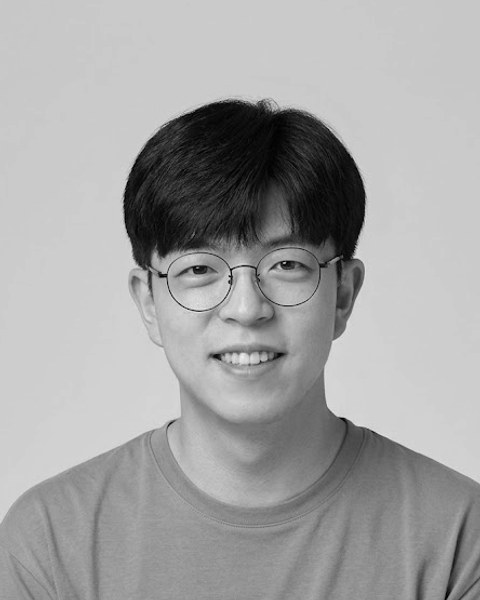
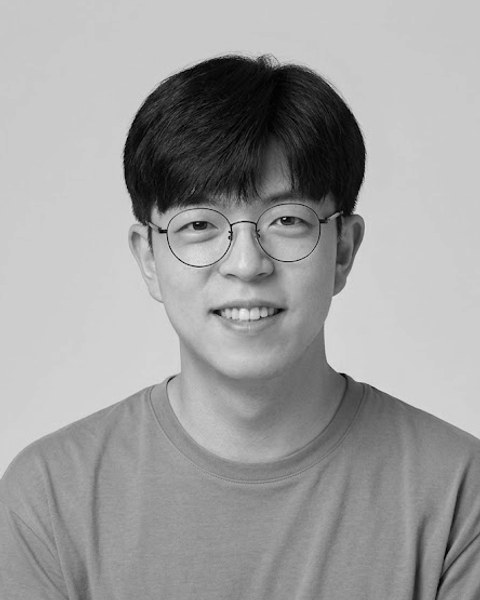
Restore headroom on 6 teachers, nudge 형일우 up slightly
The "moderate tighten" pass a few rounds back cut headroom too close
for 김진우/김금단/배경호/신병철/최윤후/조윤성 (confirmed by matching
the exact set the user flagged as cut off). Reverted each to their
last known-good, more generous crop. Also raised 형일우 slightly
within frame per feedback that he sat too low.

diff --git a/index.html b/index.html
@@ -199,23 +199,23 @@
           <h3>디쌤</h3>
           <p class="tcard-role">원장 · 영어</p>
         </div>
-        <div class="carousel-slide tcard lightbox-trigger" data-name="김진우" data-role="부원장 · 국어" data-photo="assets/teacher-kimjinwoo.jpg?v=7">
-          <div class="tcard-photo-wrap"><img class="tcard-photo" src="assets/teacher-kimjinwoo.jpg?v=7" alt="김진우"></div>
+        <div class="carousel-slide tcard lightbox-trigger" data-name="김진우" data-role="부원장 · 국어" data-photo="assets/teacher-kimjinwoo.jpg?v=8">
+          <div class="tcard-photo-wrap"><img class="tcard-photo" src="assets/teacher-kimjinwoo.jpg?v=8" alt="김진우"></div>
           <h3>김진우</h3>
           <p class="tcard-role">부원장 · 국어</p>
         </div>
-        <div class="carousel-slide tcard lightbox-trigger" data-name="김금단" data-role="팀장 · 영어" data-photo="assets/teacher-kimgeumdan.jpg?v=7">
-          <div class="tcard-photo-wrap"><img class="tcard-photo" src="assets/teacher-kimgeumdan.jpg?v=7" alt="김금단"></div>
+        <div class="carousel-slide tcard lightbox-trigger" data-name="김금단" data-role="팀장 · 영어" data-photo="assets/teacher-kimgeumdan.jpg?v=8">
+          <div class="tcard-photo-wrap"><img class="tcard-photo" src="assets/teacher-kimgeumdan.jpg?v=8" alt="김금단"></div>
           <h3>김금단</h3>
           <p class="tcard-role">팀장 · 영어</p>
         </div>
-        <div class="carousel-slide tcard lightbox-trigger" data-name="배경호" data-role="팀장 · 수학" data-photo="assets/teacher-baekyungho.jpg?v=6">
-          <div class="tcard-photo-wrap"><img class="tcard-photo" src="assets/teacher-baekyungho.jpg?v=6" alt="배경호"></div>
+        <div class="carousel-slide tcard lightbox-trigger" data-name="배경호" data-role="팀장 · 수학" data-photo="assets/teacher-baekyungho.jpg?v=7">
+          <div class="tcard-photo-wrap"><img class="tcard-photo" src="assets/teacher-baekyungho.jpg?v=7" alt="배경호"></div>
           <h3>배경호</h3>
           <p class="tcard-role">팀장 · 수학</p>
         </div>
-        <div class="carousel-slide tcard lightbox-trigger" data-name="신병철" data-role="수학" data-photo="assets/teacher-shinbyungchul.jpg?v=5">
-          <div class="tcard-photo-wrap"><img class="tcard-photo" src="assets/teacher-shinbyungchul.jpg?v=5" alt="신병철"></div>
+        <div class="carousel-slide tcard lightbox-trigger" data-name="신병철" data-role="수학" data-photo="assets/teacher-shinbyungchul.jpg?v=6">
+          <div class="tcard-photo-wrap"><img class="tcard-photo" src="assets/teacher-shinbyungchul.jpg?v=6" alt="신병철"></div>
           <h3>신병철</h3>
           <p class="tcard-role">수학</p>
         </div>
@@ -224,13 +224,13 @@
           <h3>안소현</h3>
           <p class="tcard-role">국어</p>
         </div>
-        <div class="carousel-slide tcard lightbox-trigger" data-name="최윤후" data-role="영어" data-photo="assets/teacher-choiyoonhoo.jpg?v=5">
-          <div class="tcard-photo-wrap"><img class="tcard-photo" src="assets/teacher-choiyoonhoo.jpg?v=5" alt="최윤후"></div>
+        <div class="carousel-slide tcard lightbox-trigger" data-name="최윤후" data-role="영어" data-photo="assets/teacher-choiyoonhoo.jpg?v=6">
+          <div class="tcard-photo-wrap"><img class="tcard-photo" src="assets/teacher-choiyoonhoo.jpg?v=6" alt="최윤후"></div>
           <h3>최윤후</h3>
           <p class="tcard-role">영어</p>
         </div>
-        <div class="carousel-slide tcard lightbox-trigger" data-name="조윤성" data-role="수학" data-photo="assets/teacher-jhoyoonsung.jpg?v=4">
-          <div class="tcard-photo-wrap"><img class="tcard-photo" src="assets/teacher-jhoyoonsung.jpg?v=4" alt="조윤성"></div>
+        <div class="carousel-slide tcard lightbox-trigger" data-name="조윤성" data-role="수학" data-photo="assets/teacher-jhoyoonsung.jpg?v=5">
+          <div class="tcard-photo-wrap"><img class="tcard-photo" src="assets/teacher-jhoyoonsung.jpg?v=5" alt="조윤성"></div>
           <h3>조윤성</h3>
           <p class="tcard-role">수학</p>
         </div>
@@ -249,8 +249,8 @@
           <h3>김정민</h3>
           <p class="tcard-role">통합사회 · 한국사</p>
         </div>
-        <div class="carousel-slide tcard lightbox-trigger" data-name="형일우" data-role="수학" data-photo="assets/teacher-hyungilwoo.jpg">
-          <div class="tcard-photo-wrap"><img class="tcard-photo" src="assets/teacher-hyungilwoo.jpg" alt="형일우"></div>
+        <div class="carousel-slide tcard lightbox-trigger" data-name="형일우" data-role="수학" data-photo="assets/teacher-hyungilwoo.jpg?v=2">
+          <div class="tcard-photo-wrap"><img class="tcard-photo" src="assets/teacher-hyungilwoo.jpg?v=2" alt="형일우"></div>
           <h3>형일우</h3>
           <p class="tcard-role">수학</p>
         </div>

diff --git a/process-teachers.js b/process-teachers.js
@@ -10,17 +10,17 @@ const OUT_W = 480, OUT_H = 600; // 4:5 portrait, consistent across all cards
 // the auto-fit step below only needs to make small adjustments.
 const photos = [
   { file: '디쌤 원장 프로필.jpg', out: 'teacher-disaem.jpg', top: 0.07, bottom: 0.88, left: 0.1635, right: 0.8115, normalize: true },
-  { file: '김진우 프로필.jpg', out: 'teacher-kimjinwoo.jpg', top: 0.128, bottom: 0.85, left: 0.144, right: 0.866 },
-  { file: '김금단 프로필.png', out: 'teacher-kimgeumdan.jpg', top: 0.235, bottom: 0.74, left: 0.212, right: 0.778 },
-  { file: '배경호 프로필.jpg', out: 'teacher-baekyungho.jpg', top: 0.126, bottom: 0.87, left: 0.163, right: 0.867 },
-  { file: '신병철프로필.png', out: 'teacher-shinbyungchul.jpg', top: 0.122, bottom: 0.804, left: 0.107, right: 0.873 },
+  { file: '김진우 프로필.jpg', out: 'teacher-kimjinwoo.jpg', top: 0.02, bottom: 0.85, left: 0.09, right: 0.92 },
+  { file: '김금단 프로필.png', out: 'teacher-kimgeumdan.jpg', top: 0.16, bottom: 0.74, left: 0.17, right: 0.82 },
+  { file: '배경호 프로필.jpg', out: 'teacher-baekyungho.jpg', top: 0.015, bottom: 0.87, left: 0.11, right: 0.92 },
+  { file: '신병철프로필.png', out: 'teacher-shinbyungchul.jpg', top: 0.02, bottom: 0.804, left: 0.05, right: 0.93 },
   { file: '안소현 프로필.jpg', out: 'teacher-ansoseon.jpg', top: 0.127, bottom: 0.64, left: 0.212, right: 0.778 },
-  { file: '최윤후 프로필.jpg', out: 'teacher-choiyoonhoo.jpg', top: 0.114, bottom: 0.777, left: 0.133, right: 0.837 },
-  { file: '조윤성 프로필.png', out: 'teacher-jhoyoonsung.jpg', top: 0.203, bottom: 0.76, left: 0.177, right: 0.803 },
+  { file: '최윤후 프로필.jpg', out: 'teacher-choiyoonhoo.jpg', top: 0.015, bottom: 0.777, left: 0.08, right: 0.89 },
+  { file: '조윤성 프로필.png', out: 'teacher-jhoyoonsung.jpg', top: 0.12, bottom: 0.76, left: 0.13, right: 0.85 },
   { file: '장효진 프로필.jpg', out: 'teacher-jangHyojin.jpg', top: 0.04, bottom: 0.75, left: 0.05, right: 0.90 },
   { file: '김정민 프로필.png', out: 'teacher-kimjeongmin.jpg', top: 0.045, bottom: 0.86, left: 0.2115, right: 0.8635 },
   { file: '박한미 프로필.jpeg', out: 'teacher-parkhanmi.jpg', top: 0.03, bottom: 0.81, left: 0.10, right: 0.90 },
-  { file: '형일우 프로필.jpg', out: 'teacher-hyungilwoo.jpg', top: 0.06, bottom: 0.61, left: 0.02, right: 0.96 },
+  { file: '형일우 프로필.jpg', out: 'teacher-hyungilwoo.jpg', top: 0.10, bottom: 0.65, left: 0.02, right: 0.96 },
 ];
 
 const targetRatio = OUT_W / OUT_H; // 0.8
